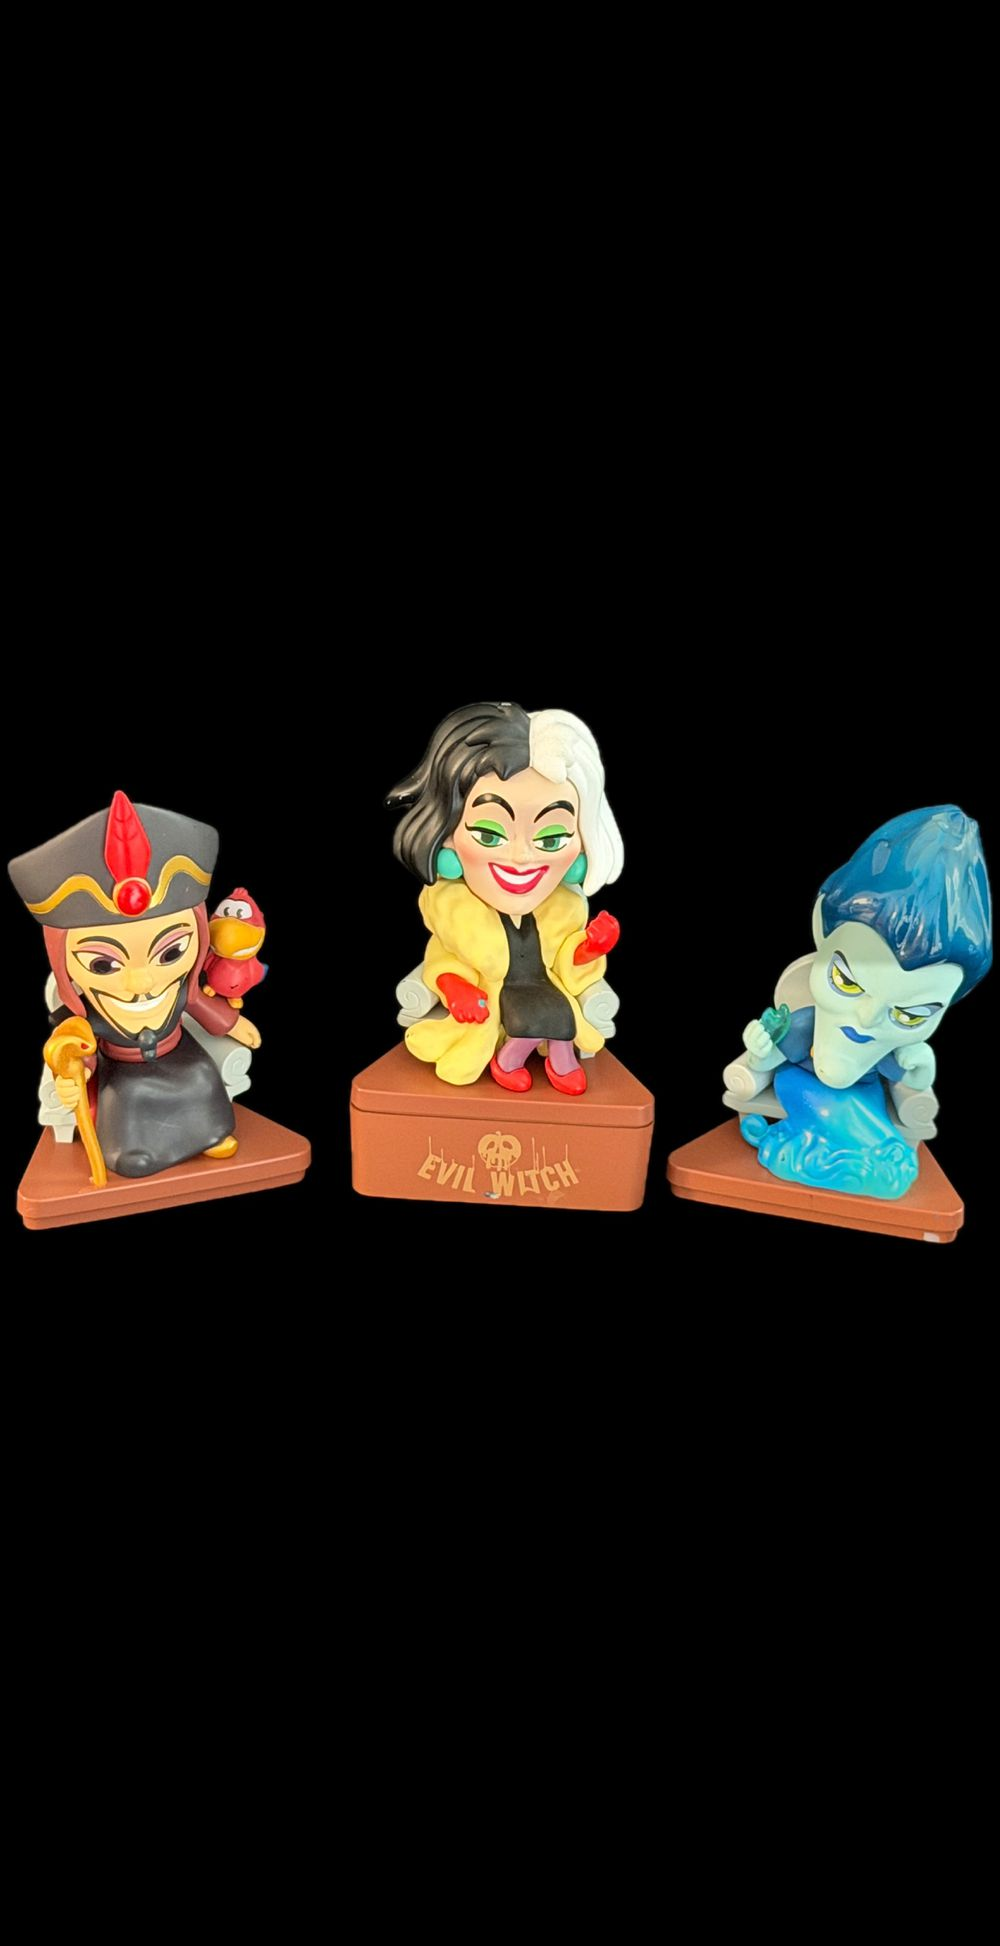
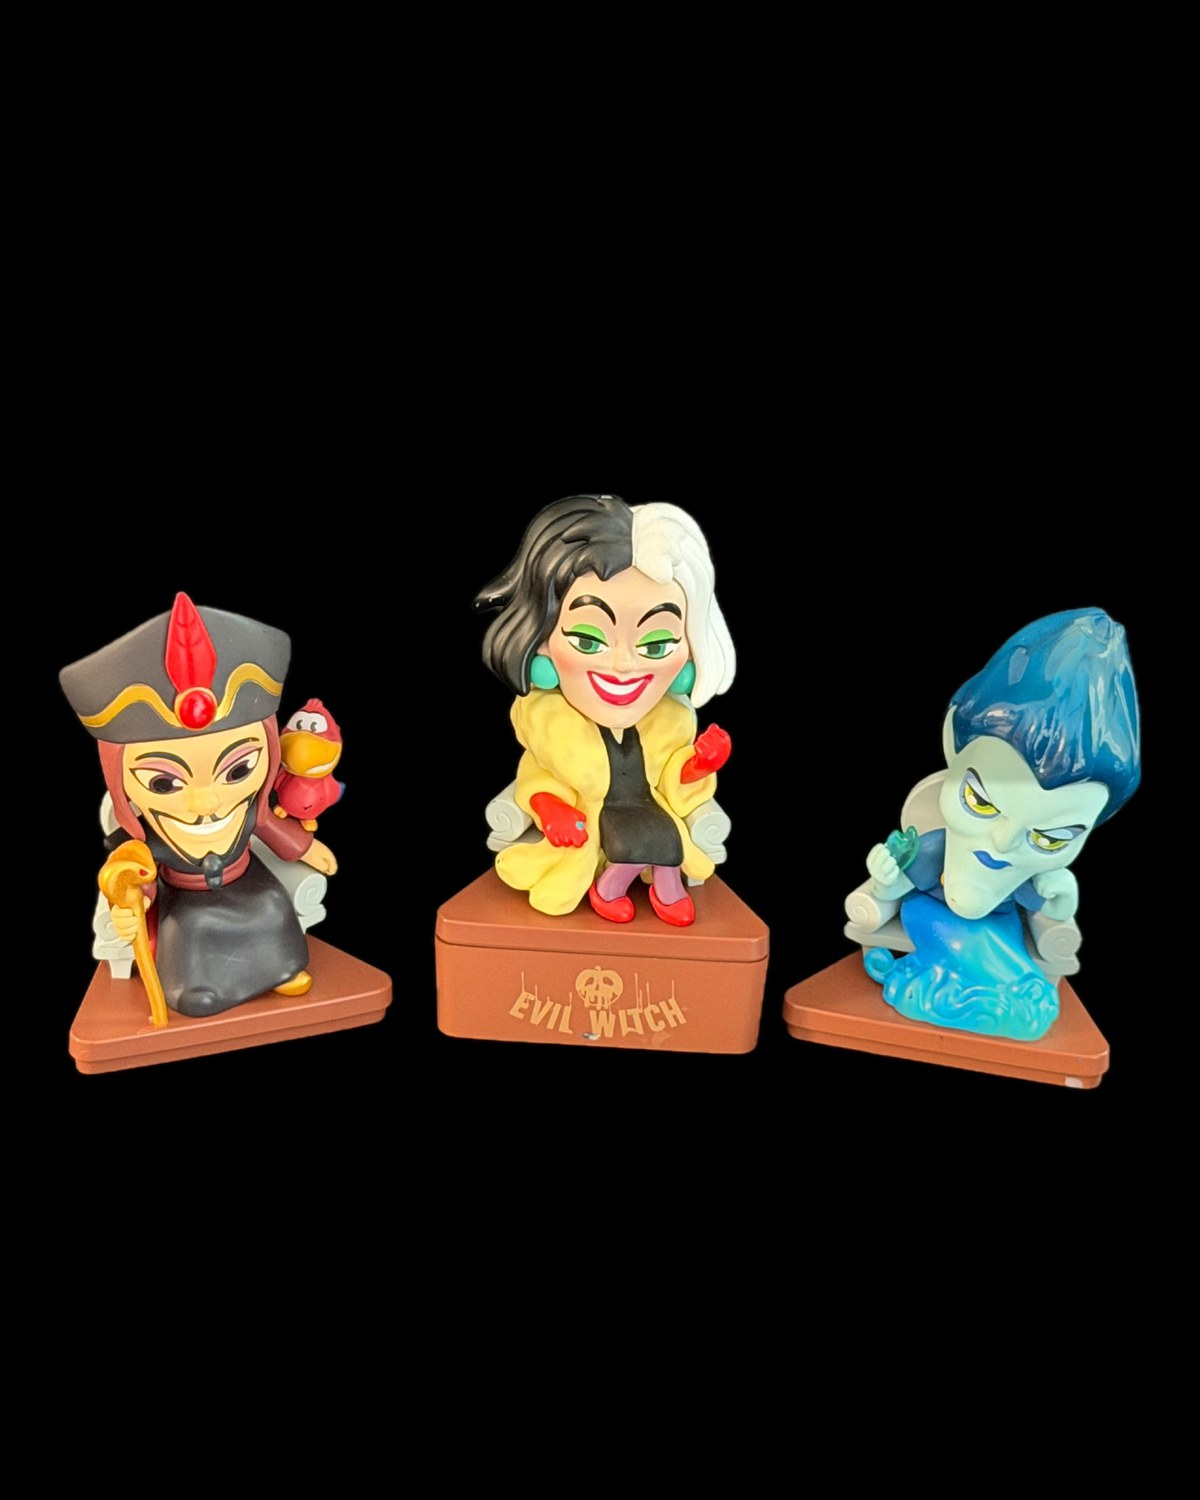
Enlarge hero slides: phone 02/05a/05b on a 4:5 canvas, wider desktop 01
Phone: the hero band is ~4:5, so the 1000x1946 portraits were limited by its
height and showed only ~250pt wide. 02, 05a and 05b are rebuilt at 1200x1500:
02's rows moved closer together, and 05a is rebuilt from the product photo so
the orange panda's cuff and the pink panda's paw are no longer cut off. About
1.35-1.4x larger, clear of the logo, menu button and dots.

Desktop: 01 is cropped to 2.9:1 so its single row fills the window's width
(1.15-1.4x larger).

The active slide dot no longer turns grey under a sticky touch hover.

Changed region(s): [[0.0, 0.3067, 1.0, 0.736]]

diff --git a/index.html b/index.html
@@ -19,7 +19,7 @@
 <link rel="preconnect" href="https://fonts.googleapis.com">
 <link rel="preconnect" href="https://fonts.gstatic.com" crossorigin>
 <link href="https://fonts.googleapis.com/css2?family=Instrument+Serif:ital@0;1&family=Inter:wght@300;400;500;600&family=IBM+Plex+Mono:wght@400;500&display=swap" rel="stylesheet">
-<link rel="stylesheet" href="assets/css/style.css?v=70c5ee5b">
+<link rel="stylesheet" href="assets/css/style.css?v=ecbdc7cf">
 <script>document.documentElement.classList.add('js');</script>
 </head>
 <body>
@@ -67,14 +67,14 @@
         <picture>
           <source media="(max-width: 560px)"
                   srcset="assets/img/show-portrait/01-plush-characters-A.jpg" width="1000" height="1946">
-          <img src="assets/img/show/01-plush-characters-A.jpg" width="1800" height="876" alt="Plush toys — character plush"
+          <img src="assets/img/show/01-plush-characters-A.jpg" width="1800" height="620" alt="Plush toys — character plush"
              fetchpriority="high" decoding="async">
         </picture>
       </figure>
       <figure class="media fade__item">
         <picture>
           <source media="(max-width: 560px)"
-                  srcset="assets/img/show-portrait/02-plush-characters-B.jpg" width="1000" height="1946">
+                  srcset="assets/img/show-portrait/02-plush-characters-B.jpg" width="1200" height="1500">
           <img src="assets/img/show/02-plush-characters-B.jpg" width="1800" height="876" alt="Plush toys — character families"
              loading="lazy" decoding="async">
         </picture>
@@ -98,7 +98,7 @@
       <figure class="media fade__item">
         <picture>
           <source media="(max-width: 560px)"
-                  srcset="assets/img/show-portrait/05a-panda-figures.jpg" width="1000" height="1946">
+                  srcset="assets/img/show-portrait/05a-panda-figures.jpg" width="1200" height="1500">
           <img src="assets/img/show/05a-panda-figures.jpg" width="1800" height="876" alt="Silicone products — panda figures"
                loading="lazy" decoding="async">
         </picture>
@@ -106,7 +106,7 @@
       <figure class="media fade__item">
         <picture>
           <source media="(max-width: 560px)"
-                  srcset="assets/img/show-portrait/05b-villain-figures.jpg" width="1000" height="1946">
+                  srcset="assets/img/show-portrait/05b-villain-figures.jpg" width="1200" height="1500">
           <img src="assets/img/show/05b-villain-figures.jpg" width="1800" height="876" alt="Character figures — villain series"
                loading="lazy" decoding="async">
         </picture>

diff --git a/assets/css/style.css b/assets/css/style.css
@@ -355,7 +355,11 @@ button{ font:inherit; color:inherit; background:none; border:0; cursor:pointer; 
   transition:width .45s var(--ease), background .3s var(--ease);
 }
 .fade__dot.is-on{ width:30px; background:var(--brick); }
-.fade__dot:hover{ background:rgba(242,239,233,.75); }
+/* touch screens keep :hover on whatever was last tapped, which greyed out the
+   active pill; only real pointers get the hover, and never on the active dot */
+@media (hover:hover){
+  .fade__dot:not(.is-on):hover{ background:rgba(242,239,233,.75); }
+}
 
 /* ---------- about ---------- */
 .about{ display:grid; grid-template-columns:1fr 1fr; gap:clamp(40px,6vw,96px); align-items:start; }
